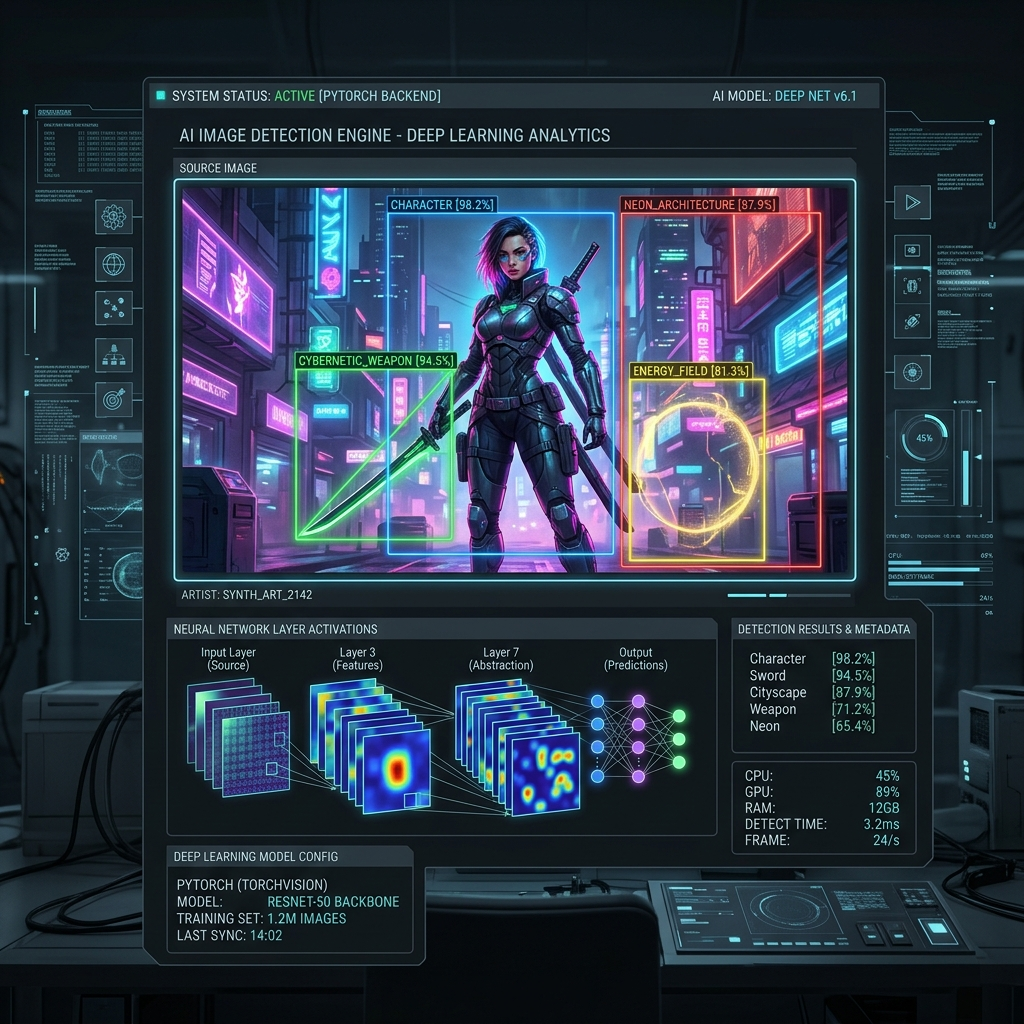
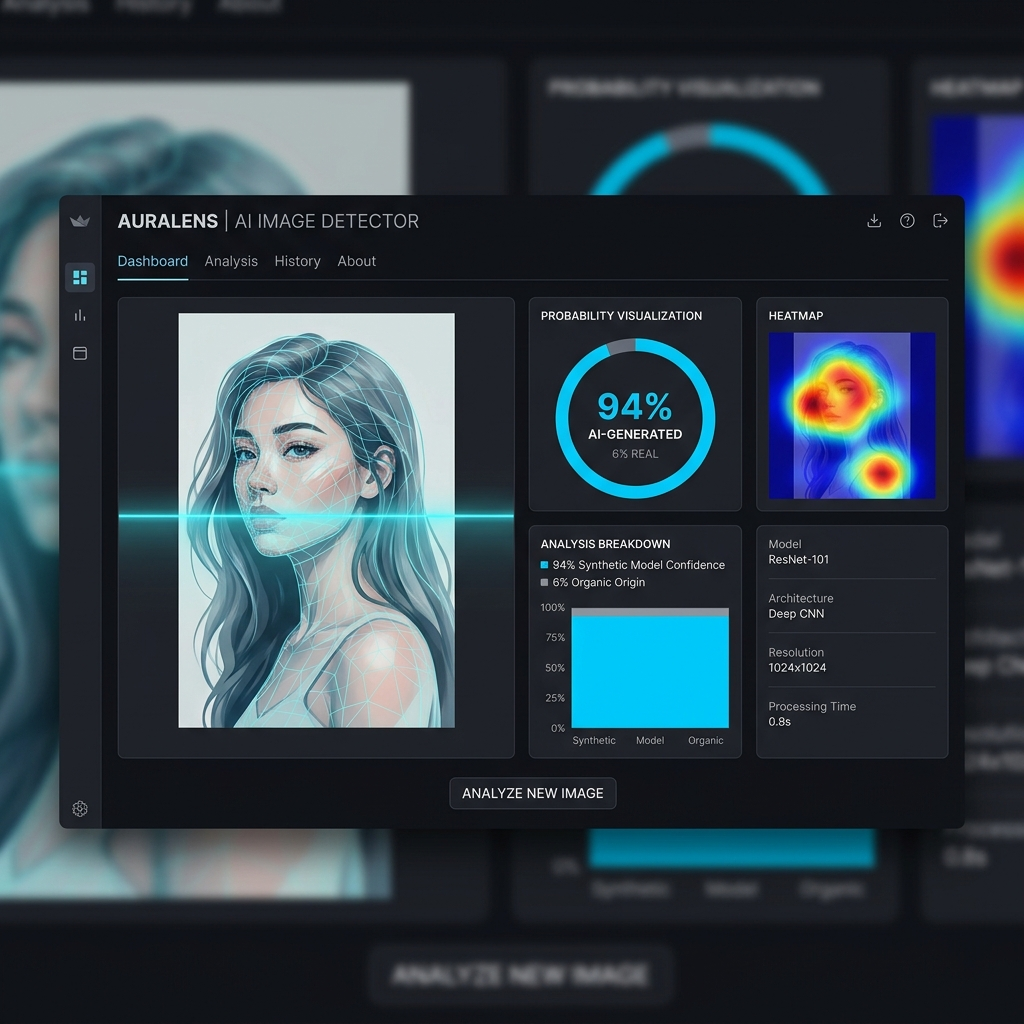
responsive fix

diff --git a/style.css b/style.css
@@ -1,3 +1,5 @@
+@import url('https://fonts.googleapis.com/css2?family=Mr+De+Haviland&display=swap');
+
 /* ===== Base Variables & Reset ===== */
 :root {
     --bg-color: #171717; /* Deep Dark Grey/Black */
@@ -8,7 +10,7 @@
     
     --font-sans: 'Inter', sans-serif;
     --font-giant: 'Oswald', sans-serif;
-    --font-signature: 'Great Vibes', cursive;
+    --font-signature: 'Mr De Haviland', cursive;
     
     --space-sm: 1rem;
     --space-md: 2.5rem;
@@ -710,15 +712,36 @@ h1, h2, h3, h4 {
         min-height: -webkit-fill-available;
     }
     
-    .hero-top-bar, .hero-bottom-bar {
-        font-size: 0.75rem;
-        font-weight: 500;
-        z-index: 10;
-        width: 100%;
+    .hero-top-bar {
+        position: absolute !important;
+        top: 2rem !important;
+        left: 0 !important;
+        right: 0 !important;
+        padding: 0 1.5rem !important;
+        display: flex !important;
+        flex-direction: row !important;
+        justify-content: space-between !important;
+        align-items: center !important;
+        width: 100% !important;
+        font-size: 0.75rem !important;
+        font-weight: 500 !important;
+        z-index: 10 !important;
     }
     
-    .hero-top-bar {
-        margin-bottom: 2rem;
+    .hero-bottom-bar {
+        position: absolute !important;
+        bottom: 2rem !important;
+        left: 0 !important;
+        right: 0 !important;
+        padding: 0 1.5rem !important;
+        display: flex !important;
+        flex-direction: row !important;
+        justify-content: space-between !important;
+        align-items: center !important;
+        width: 100% !important;
+        font-size: 0.75rem !important;
+        font-weight: 500 !important;
+        z-index: 10 !important;
     }
     
     .hero-center-content {
@@ -732,24 +755,25 @@ h1, h2, h3, h4 {
     }
     
     .hero-profile-pic {
-        position: absolute;
-        top: 50%;
-        left: 50%;
-        transform: translate(-50%, -50%);
-        height: 65vh !important; /* Perfect height scaling on tall/short mobile screens */
-        width: auto !important;
-        max-width: 85vw !important; /* Prevents overflow cropping */
-        object-fit: contain !important; /* Displays portrait without stretching/cropping */
-        object-position: center;
-        mix-blend-mode: screen; /* Blends JPEG black background with LiquidEther */
-        opacity: 0.9;
-        pointer-events: none;
-        z-index: 1;
+        position: absolute !important;
+        top: 0 !important;
+        left: 0 !important;
+        right: 0 !important;
+        bottom: 0 !important;
+        transform: none !important;
+        width: 100vw !important;
+        height: 100vh !important; /* Fills phone width and height completely */
+        object-fit: cover !important; /* Crops cleanly while fitting exact dimensions */
+        object-position: center !important;
+        mix-blend-mode: screen !important; /* Blends JPEG black background with LiquidEther */
+        opacity: 0.85 !important;
+        pointer-events: none !important;
+        z-index: 1 !important;
     }
     
     .signature-text {
-        font-size: clamp(2.5rem, 8.5vw, 4.5rem) !important; /* Perfectly sized signature */
-        transform: translate(-50%, -50%) rotate(-5deg) translateY(12vh) !important; /* Centered relative to viewport, shifted down */
+        font-size: clamp(3rem, 12vw, 6rem) !important; /* Perfectly sized signature for Mr De Haviland */
+        transform: translate(-50%, -50%) rotate(-5deg) translateY(14vh) !important; /* Centered relative to viewport, shifted down */
         left: 50%;
         top: 50%;
         width: 100%;

diff --git a/index.html b/index.html
@@ -9,7 +9,7 @@
     <link rel="preconnect" href="https://fonts.googleapis.com">
     <link rel="preconnect" href="https://fonts.gstatic.com" crossorigin>
     <link
-        href="https://fonts.googleapis.com/css2?family=Great+Vibes&family=Inter:wght@400;500;600;900&family=Oswald:wght@500;700&display=swap"
+        href="https://fonts.googleapis.com/css2?family=Mr+De+Haviland&family=Inter:wght@400;500;600;900&family=Oswald:wght@500;700&display=swap"
         rel="stylesheet">
     <link rel="stylesheet" type="text/css" href="https://cdn.jsdelivr.net/gh/devicons/devicon@latest/devicon.min.css" />
     <link rel="stylesheet" href="style.css">
@@ -40,7 +40,7 @@
 
             <div class="hero-top-bar reveal-fade">
                 <div class="top-left">Software Engineer & AI Enthusiast</div>
-                <div class="top-right">20 May, 2026 &rarr;</div>
+                <div class="top-right">25 May, 2026 &rarr;</div>
             </div>
 
             <div class="hero-center-content">

diff --git a/script.js b/script.js
@@ -1,4 +1,15 @@
 document.addEventListener('DOMContentLoaded', () => {
+
+    /* ===== Dynamic Today's Date Update ===== */
+    const dateEl = document.querySelector('.top-right');
+    if (dateEl) {
+        const today = new Date();
+        const day = today.getDate();
+        const monthNames = ["January", "February", "March", "April", "May", "June", "July", "August", "September", "October", "November", "December"];
+        const month = monthNames[today.getMonth()];
+        const year = today.getFullYear();
+        dateEl.innerHTML = `${day} ${month}, ${year} &rarr;`;
+    }
     
     /* ===== Custom Cursor ===== */
     const cursorDot = document.querySelector('.cursor-dot');
